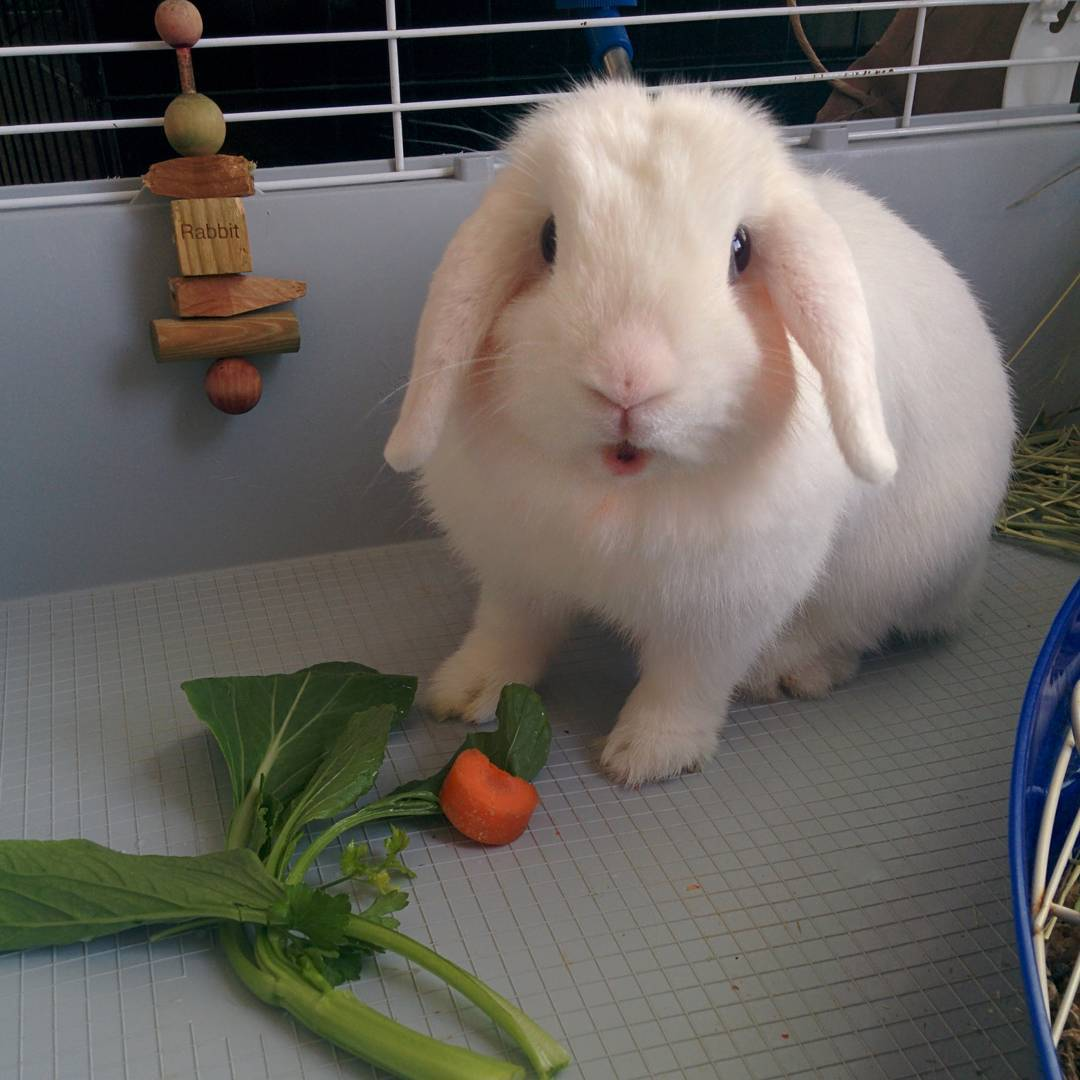
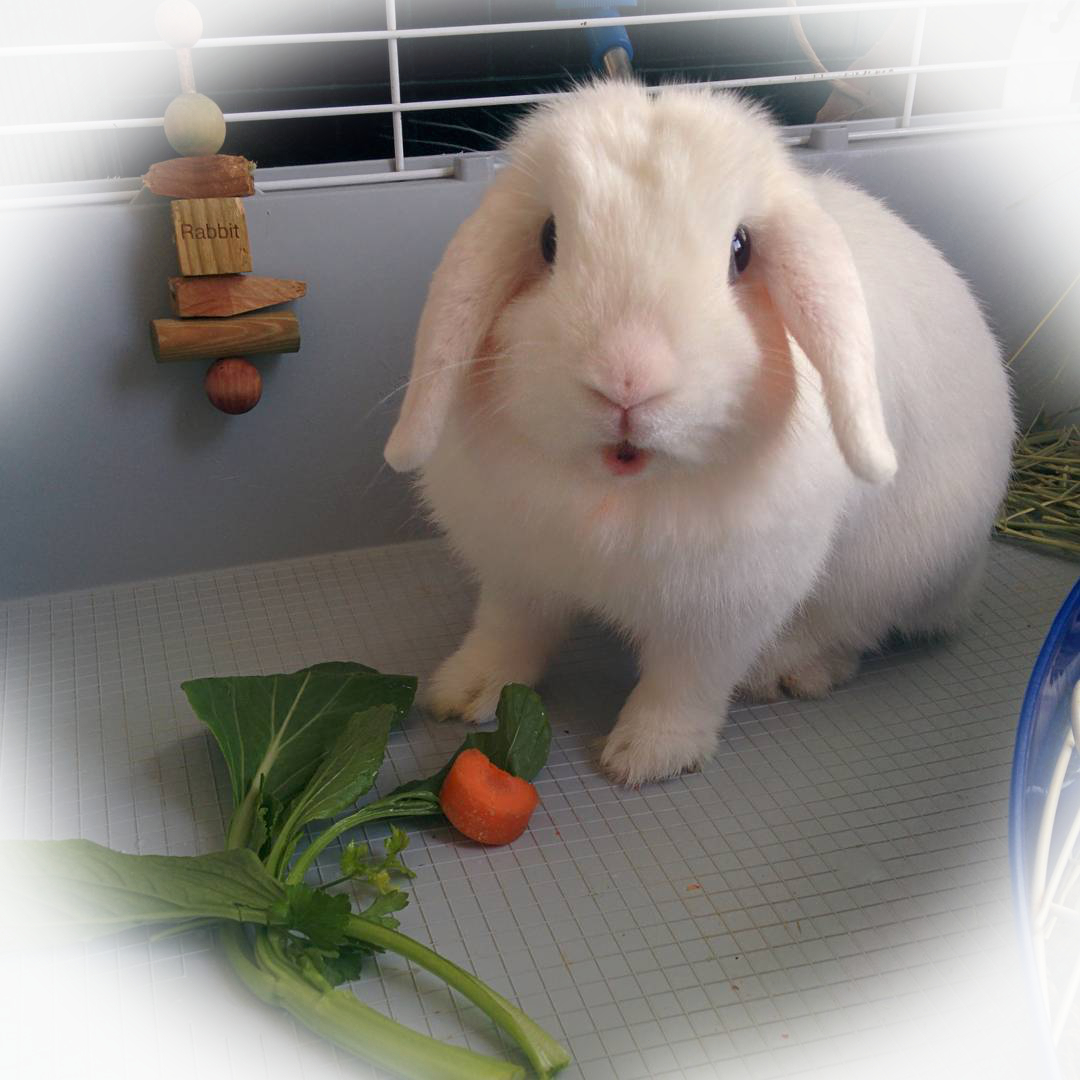
Edit index
Change homepage banner area and redo the happy testimonial section. Also
added a few more images.

diff --git a/public/pfl_index.html b/public/pfl_index.html
@@ -36,39 +36,58 @@
 
     <!-- Page Contents -->
     <div class="pusher">
-      <div class="ui inverted blue vertical masthead center aligned segment">
-        <h1 class="ui header">Pets Fur Lease</h1>
-      </div>
-
-      <div class="ui vertical stripe segment">
-        <div class="ui middle aligned stackable grid container">
+      <div class="ui vertical masthead center aligned segment" style="background-color:#808080;">
+         <div class="ui middle aligned stackable grid container">
           <div class="row">
             <div class="eight wide column">
-              <h3 class="ui header">Welcome</h3>
+              <h1 class="ui header">Pets Fur Lease</h1>
                 <p>
                   TODO: Write some kind of fancy dancy introduction
                 </p>
-             
                 <p>
                   Aminals are adorbzzzzzzzzz. We lurve dem so much 
                 </p>
 
                 <p>Please visit our "Be a sitter" section to help our your fellow neighbor and enjoy
                 the company of a furry friend. </p>
+                <strong>Give some belly rubs and help a neighbor in need.</strong>
+
             </div>
-            <div class="seven wide center aligned column">
-              <img src="..\app\assets\images\bunbun.jpg" class="ui large circular image middle aligned">
+            <div class="eight wide center aligned column">
+              <img src="..\app\assets\images\bunbungrey.jpg" class="ui image">
               <p><small>Inspiration mascot Bunbun (now known as Brianna)</small></p>
             </div>
           </div>
+        </div>
+      </div>
 
-          <div class="row ">
-            <div class="center aligned column">
-              <p class="ui center aligned">
-                <strong>Give some belly rubs and help a neighbor in need.</strong>
-              </p>
-            </div>
-          </div>
+      <div class="ui vertical stripe segment">
+        <div class="ui middle aligned stackable grid container">
+             <div class="ui fluid padded container">
+                <div class="ui three steps">
+                  <div class="step">
+                    <i class="user icon"></i>
+                    <div class="content">
+                      <div class="title">Create a profile </div>
+                      <div class="description">Tell us about yourself and your pets</div>
+                    </div>
+                  </div>
+                  <div class="step">
+                    <i class="Comments Outline icon"></i>
+                    <div class="content">
+                      <div class="title">Find friends</div>
+                      <div class="description">Chat with fellow animal lovers in your area.</div>
+                    </div>
+                  </div>
+                  <a class="step">
+                    <i class="paw icon"></i>
+                    <div class="content">
+                      <div class="title">Spend time with furry friends</div>
+                      <div class="description">Enjoy time with happy fur friends. </div>
+                    </div>
+                  </a>
+                </div>
+            </div> 
         </div>
       </div>
 
@@ -107,50 +126,71 @@
         <div class="ui container">
           <h3 class="ui header center aligned">Happy Testimonials</h3>
 
-          <div class="ui four cards">
-            <div class="card">
-              <div class="image">
-                <img src="..\app\assets\images\Dogs\sammicatdoor.jpeg">
-              </div>
+          <div class="ui three cards">
+            <div class="ui card">
               <div class="content">
-                <a class="header">Kristy</a>
+                <div class="header">
+                    <img class="ui circular tiny image" src="..\app\assets\images\Dogs\sidinstagramcute.jpeg">
+                    Cute Dog Sid 
+                </div>
                 <div class="meta">
-                  <span class="date">Joined in 2013</span>
+                  Rating:
+                  <div class="ui star rating" data-rating="4" data-max-rating="4"></div>
                 </div>
                 <div class="description">
-                  Kristy is an art director living in New York.
+                  <p>
+                    I loved sitting Sid for a week. He is adorable and very well behaved. It was a pleasure.
+                  </p>
                 </div>
               </div>
               <div class="extra content">
-                Rating:
-                <div class="ui star rating" data-rating="4" data-max-rating="4"></div>
+                <div class="right floated author">
+                  <img class="ui avatar image" src="..\app\assets\images\Portraits\JonAnderson.jpg">Jonathan Anderson
+                </div>
               </div>
             </div>
-            <div class="card">
-              <div class="image">
-                <img src="..\app\assets\images\Dogs\sidinstagramcute.jpeg">
+            <div class="ui card">
+              <div class="content">
+                <div class="header">
+                    <img class="ui circular tiny image" src="..\app\assets\images\Dogs\annie.jpg">
+                    Playful Annie 
+                </div>
+                <div class="meta">
+                  Rating:
+                  <div class="ui star rating" data-rating="4" data-max-rating="4"></div>
+                </div>
+                <div class="description">
+                  <p>
+                    Annie is extremely playful. She is not shy at all. It was a blast spending the weekend with her. She's always has a smile for you and she got along with my cats really well. 
+                  </p>
+                </div>
               </div>
-              <div class="extra">
-                Rating:
-                <div class="ui star rating" data-rating="2"></div>
+              <div class="extra content">
+                <div class="right floated author">
+                  <img class="ui avatar image" src="..\app\assets\images\Portraits\pewpew.png"> Donna L.
+                </div>
               </div>
             </div>
-            <div class="card">
-              <div class="image">
-                <img src="..\app\assets\images\Dogs\jewells.jpeg">
+             <div class="ui card">
+              <div class="content">
+                <div class="header">
+                    <img class="ui circular tiny image" src="..\app\assets\images\Portraits\kevinDuensing.jpg">
+                    Thank you Kevin
+                </div>
+                <div class="meta">
+                  Rating:
+                  <div class="ui star rating" data-rating="4" data-max-rating="4"></div>
+                </div>
+                <div class="description">
+                  <p>
+                    Kevin helped me watch my bunny Mocha for 2 weeks. He took really great care of her. He would send me pictures every few days and she looked like she had a great time with him.
+                  </p>
+                </div>
               </div>
-              <div class="extra">
-                Rating:
-                <div class="ui star rating" data-rating="3"></div>
-              </div>
-            </div>
-            <div class="card">
-              <div class="image">
-                <img src="..\app\assets\images\Dogs\penny.jpeg">
-              </div>
-              <div class="extra">
-                Rating:
-                <div class="ui star rating" data-rating="4"></div>
+              <div class="extra content">
+                <div class="right floated author">
+                  <img class="ui avatar image" src="..\app\assets\images\IMG_20150821_185930.jpg"> Bonnie
+                </div>
               </div>
             </div>
           </div>
@@ -204,12 +244,12 @@
               </div>
             </div>
             <div class="four wide column">
-              <h4 class="ui inverted header">Social Media</h4>
+              <h4 class="ui inverted header">Follow Us</h4>
               <div class="ui inverted link list">
-                <a href=""><i class="large github icon blue "></i></a>
-                <a href=""><i class="large facebook square icon blue"></i></a>
-                <a href=""><i class="large twitter icon blue"></i></a>
-                <a href=""><i class="large instagram icon blue"></i></a>
+                <a href=""><i class="large github icon grey "></i></a>
+                <a href=""><i class="large facebook square icon grey"></i></a>
+                <a href=""><i class="large twitter icon grey"></i></a>
+                <a href=""><i class="large instagram icon grey"></i></a>
               </div>
             </div>
           </div>

diff --git a/app/assets/stylesheets/Custom.css b/app/assets/stylesheets/Custom.css
@@ -11,8 +11,8 @@ h1, h3{
 .masthead h1.ui.header {
     margin-top: 2em;
     font-size: 3em;
-    color: white;
   }
+  
 .masthead h2 {
     font-size: 1.7em;
     font-weight: normal;
